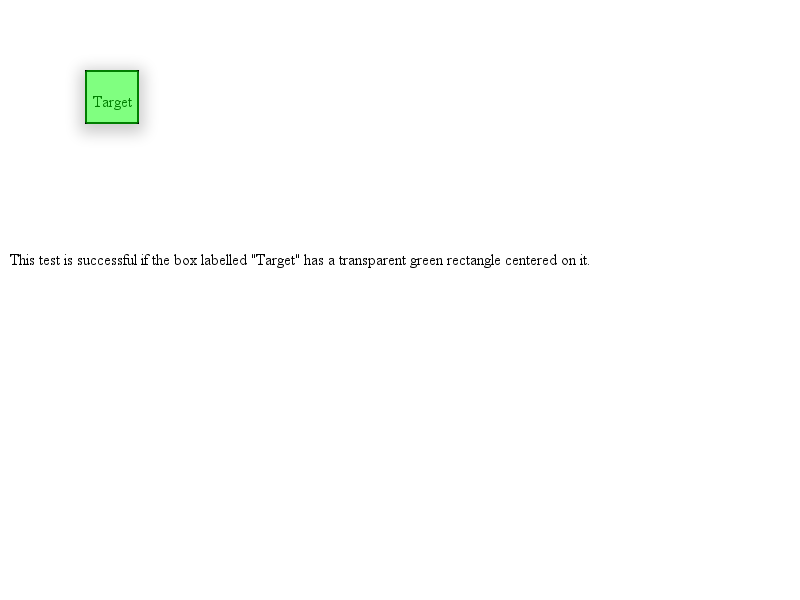
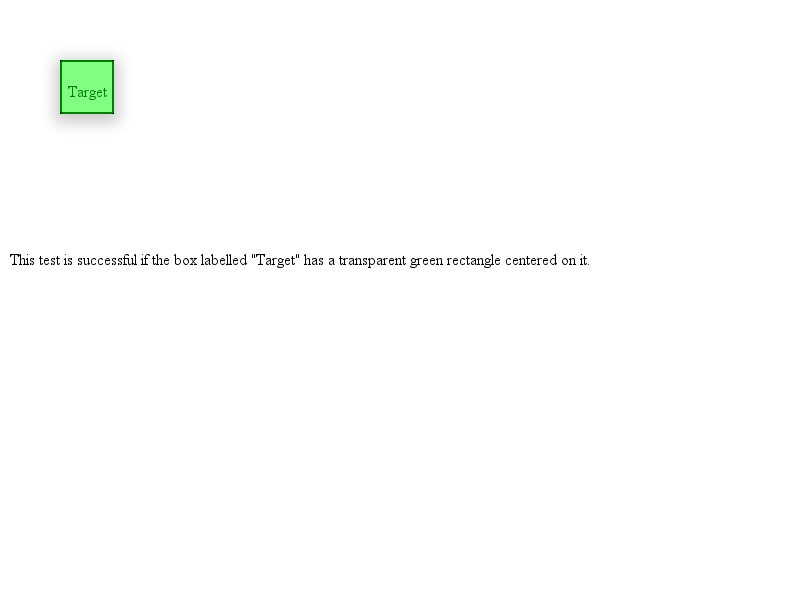
Fixed position elements should layout relative to transformed container
The original layer coordinates conversion code contains a bug that it forgets
to return for the simple case where the fixed position container found is
already the ancestor layer wanted, and the code falls through to the special
path intended for RenderFlowThread.

R=jchaffraix@chromium.org
BUG=243967

Review URL: https://codereview.chromium.org/16057002

git-svn-id: svn://svn.chromium.org/blink/trunk@153254 bbb929c8-8fbe-4397-9dbb-9b2b20218538

Changed region(s): [[0.0625, 0.09, 0.1875, 0.24]]

diff --git a/LayoutTests/fast/block/positioning/fixed-position-transformed-container.html b/LayoutTests/fast/block/positioning/fixed-position-transformed-container.html
@@ -1,0 +1,11 @@
+<!DOCTYPE html>
+<html>
+<body>
+    <div style="-webkit-transform:translateX(0);">
+        <div style="position:relative; left:500px; top:500px;">
+            <div style="position:fixed; left:50px; top:50px; width:50px; height:50px; border: 1px solid black">
+            </div>
+        </div>
+    </div>
+</body>
+</html>

diff --git a/LayoutTests/fast/block/positioning/fixed-position-transformed-container-expected.html b/LayoutTests/fast/block/positioning/fixed-position-transformed-container-expected.html
@@ -1,0 +1,9 @@
+<!DOCTYPE html>
+<html>
+<body>
+    <div style="-webkit-transform:translateX(0);">
+        <div style="position:fixed; left:50px; top:50px; width:50px; height:50px; border: 1px solid black">
+        </div>
+    </div>
+</body>
+</html>

diff --git a/Source/core/rendering/RenderLayer.cpp b/Source/core/rendering/RenderLayer.cpp
@@ -1882,8 +1882,10 @@ static inline const RenderLayer* accumulateOffsetTowardsAncestor(const RenderLay
             ancestorLayer->convertToLayerCoords(fixedPositionContainerLayer, ancestorCoords);
 
             location += (fixedContainerCoords - ancestorCoords);
-            return ancestorLayer;
+        } else {
+            location += toSize(layer->location());
         }
+        return ancestorLayer;
     }
     
     RenderLayer* parentLayer;
